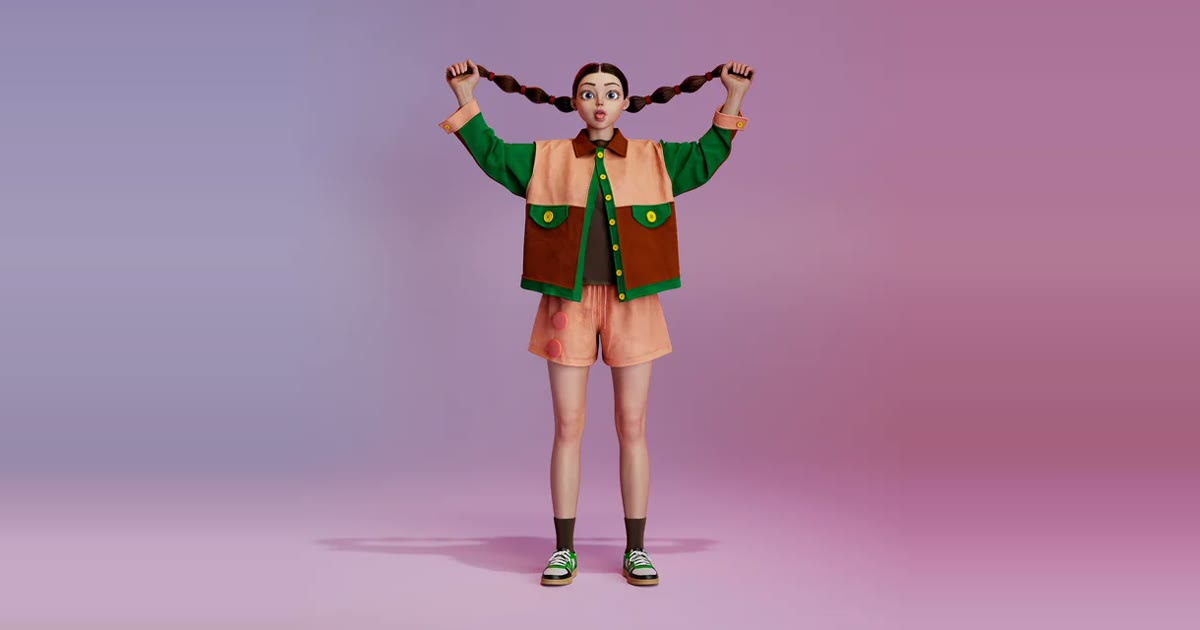
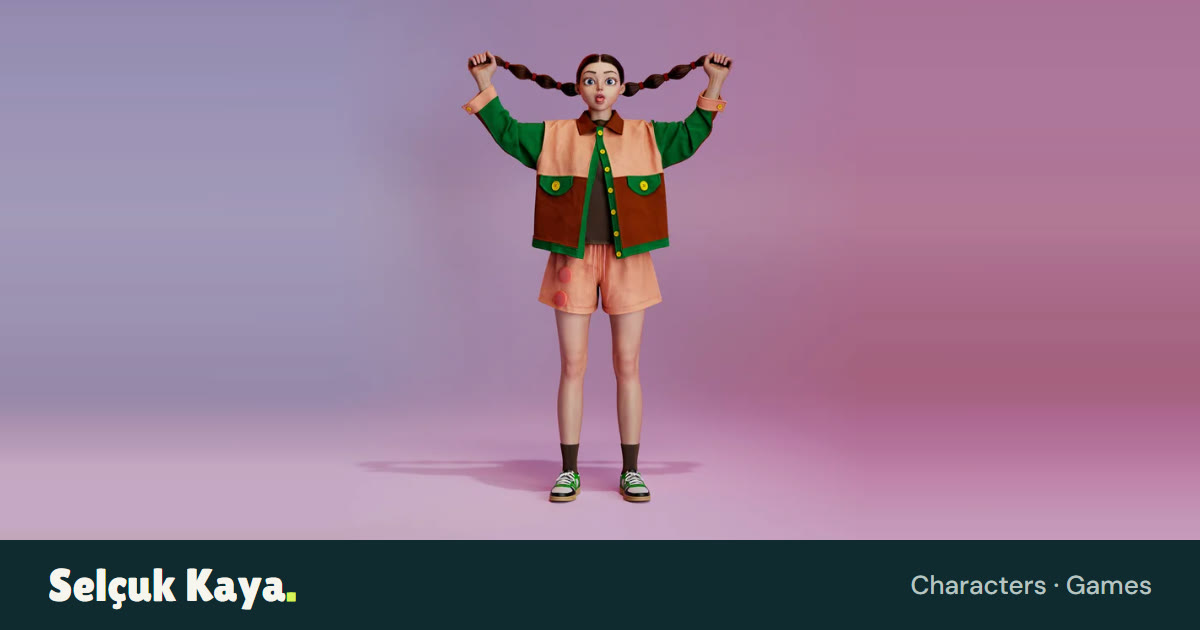
Update the portfolio website

diff --git a/index.html b/index.html
@@ -8,10 +8,13 @@
   <meta property="og:url" content="https://babogump.github.io/selcukkaya-portfolio/">
   <meta property="og:title" content="Selçuk Kaya — Game Artist">
   <meta property="og:description" content="Selçuk Kaya — Game Artist. Characters, games, tech art and props.">
-  <meta property="og:image" content="https://babogump.github.io/selcukkaya-portfolio/share.jpg">
+  <meta property="og:image" content="https://babogump.github.io/selcukkaya-portfolio/share.jpg?v=97220acd">
   <meta property="og:image:width" content="1200">
   <meta property="og:image:height" content="630">
   <title>Selçuk Kaya — Game Artist</title>
+  <!-- The tab and home screen icon, "S." (record 0030; drawn by tools/brand/brand.html). -->
+  <link rel="icon" type="image/png" sizes="32x32" href="./src/icon-32.png">
+  <link rel="apple-touch-icon" href="./src/icon-180.png">
   <script>
     // Before the first paint: the language the switch saved, else the browser's (Turkish → tr, any other → en).
     (() => {
